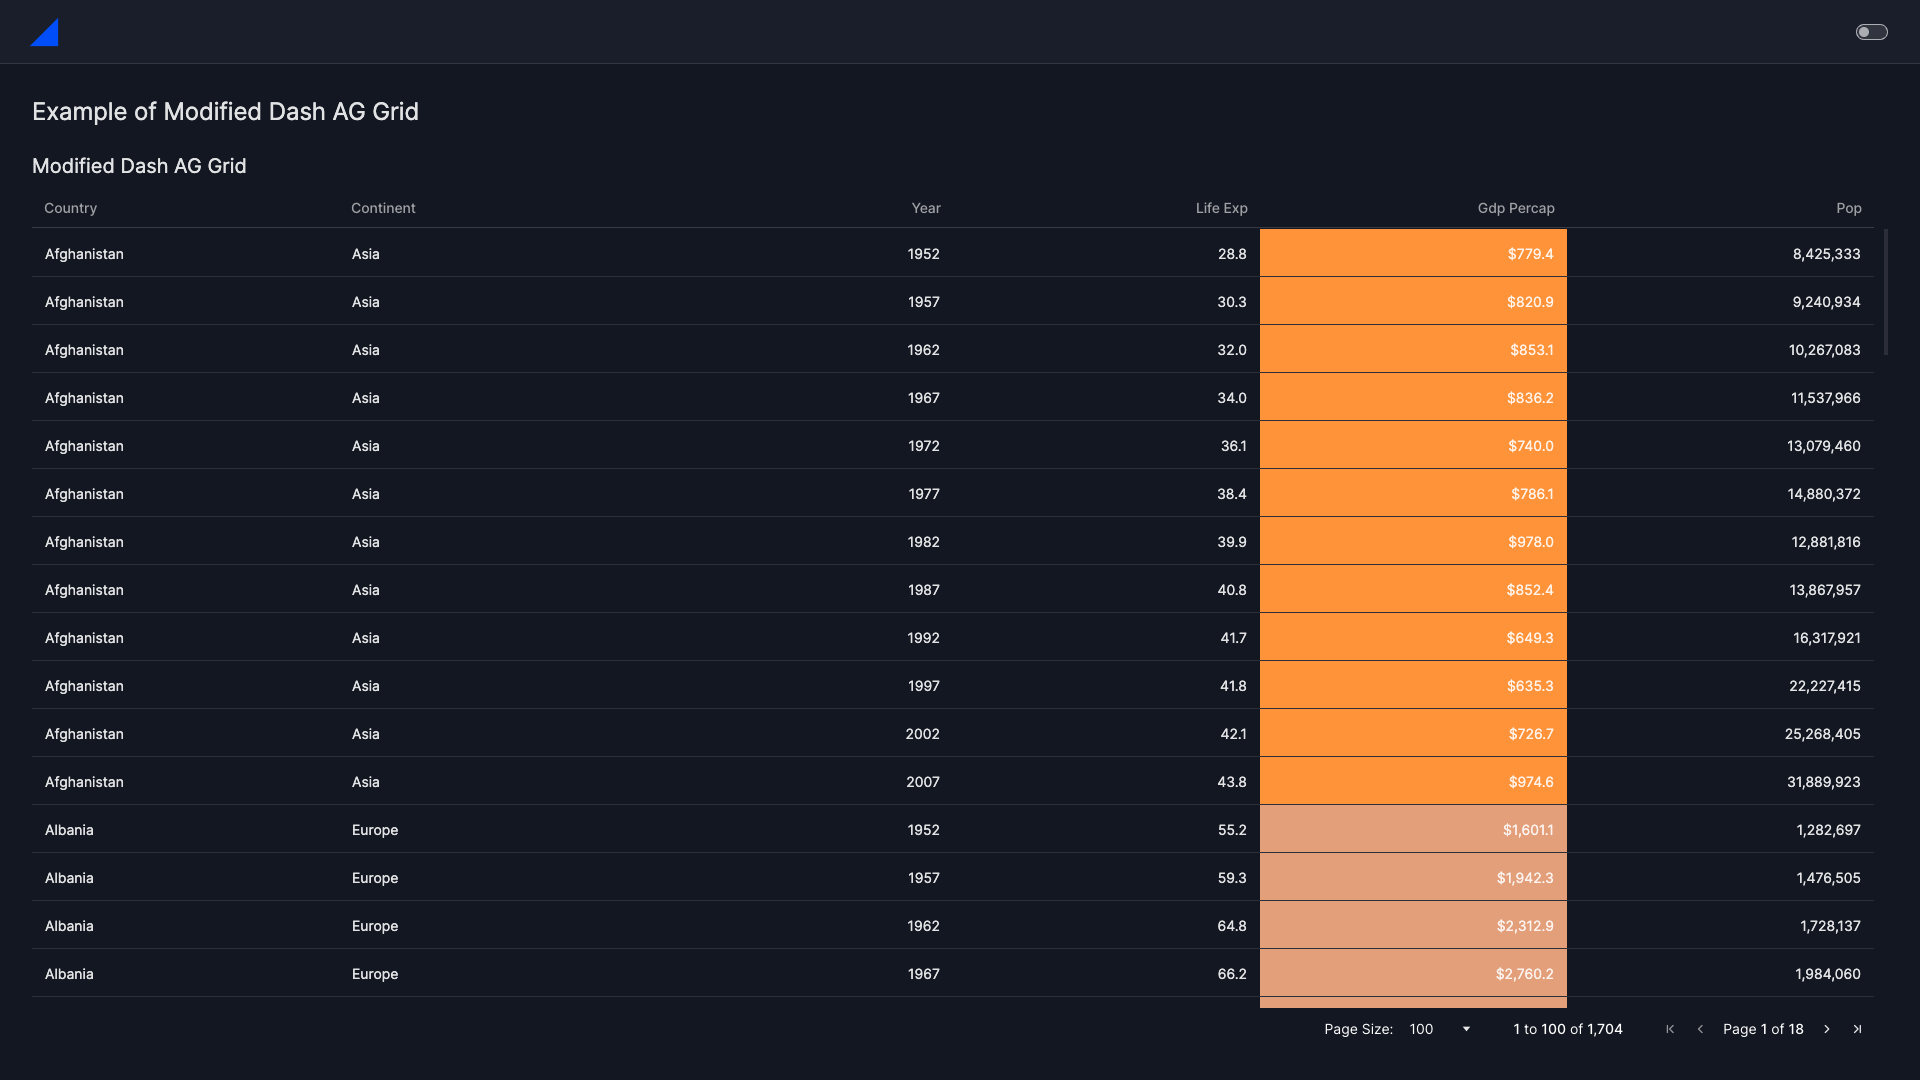
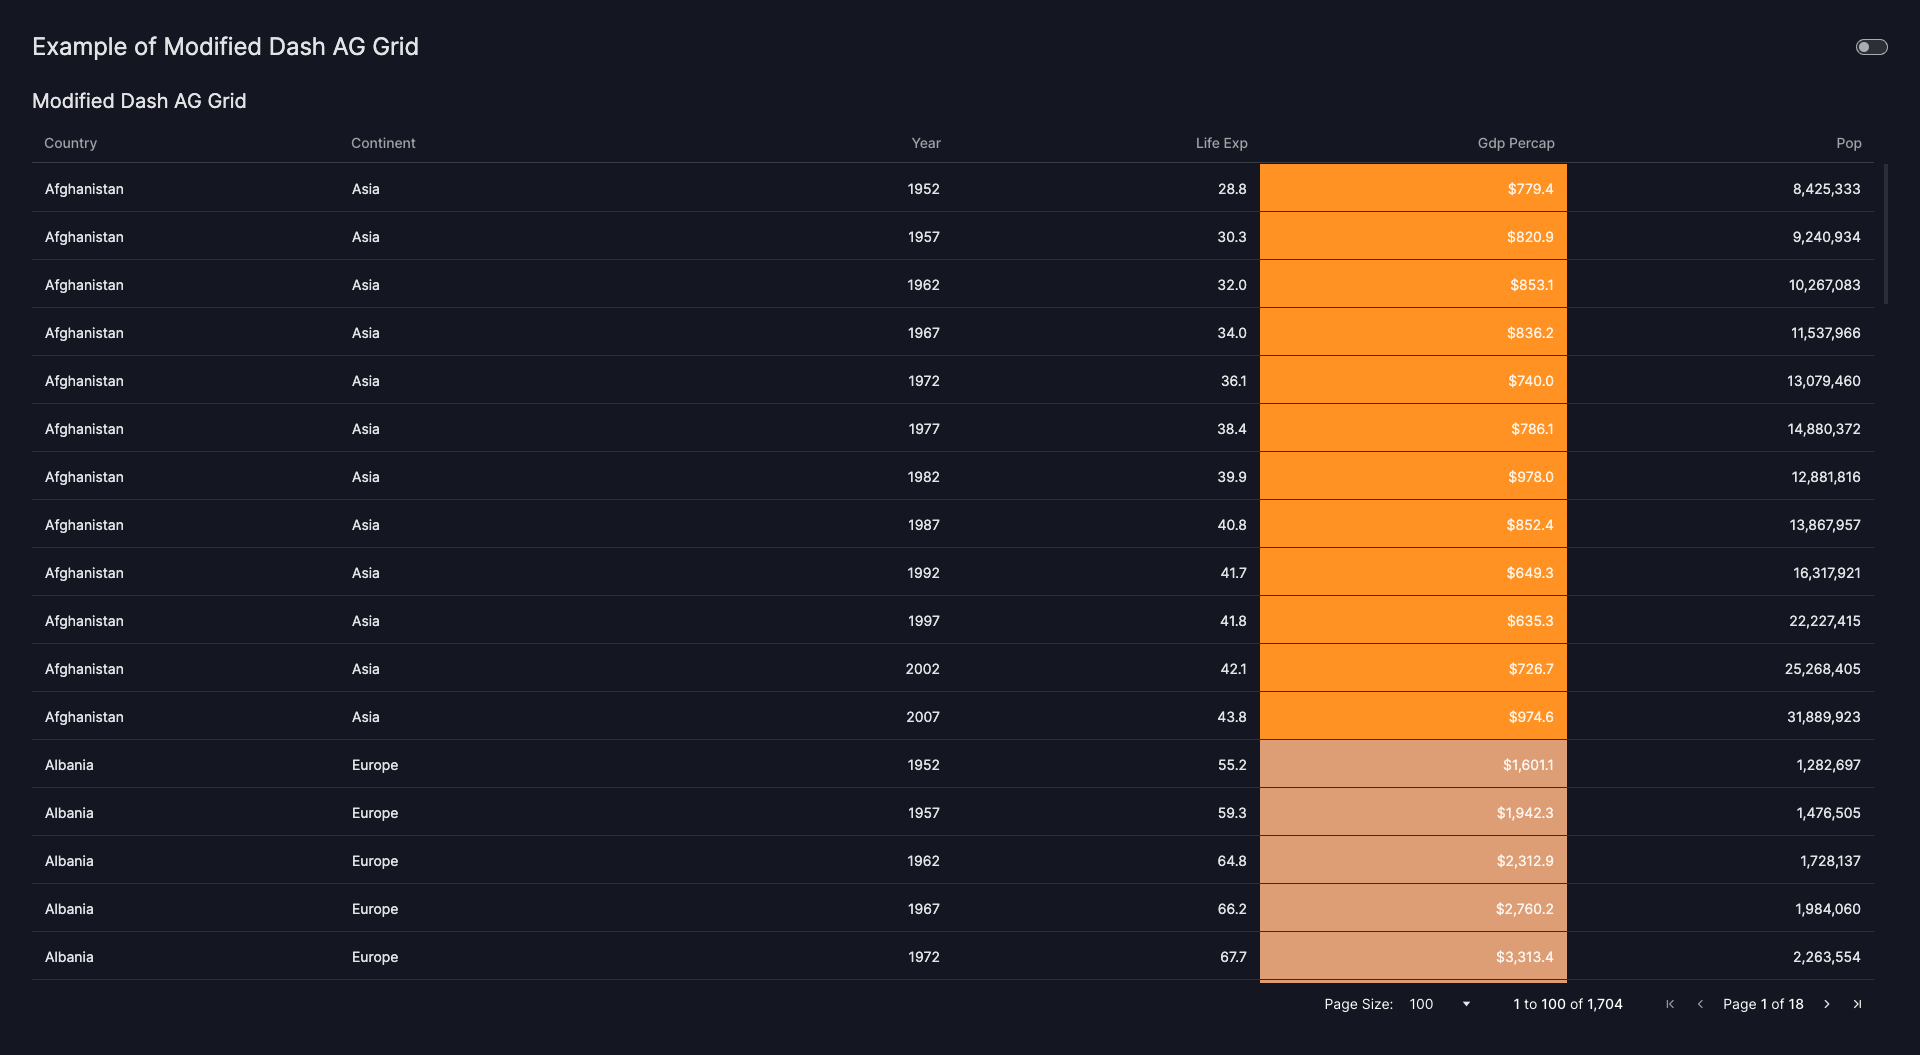
[Feat] Add column separators to `AgGrid` by default (#351)

diff --git a/vizro-core/src/vizro/static/css/aggrid.css b/vizro-core/src/vizro/static/css/aggrid.css
@@ -6,7 +6,6 @@
   --ag-header-foreground-color: var(--text-secondary);
   --ag-data-color: var(--text-primary);
   --ag-header-background-color: var(--main-container-bg-color);
-  --ag-header-column-resize-handle-display: none;
   --ag-icon-font-family: aggridquartz;
   --ag-icon-size: var(--text-size-02);
   --ag-row-height: 48px;
@@ -19,6 +18,10 @@
   --ag-row-border-width: 1px;
   --ag-selected-row-background-color: var(--state-overlays-selected);
   --ag-checkbox-checked-color: var(--text-primary);
+  --ag-header-column-resize-handle-display: block;
+  --ag-header-column-resize-handle-height: 30%;
+  --ag-header-column-resize-handle-width: 1px;
+  --ag-header-column-resize-handle-color: var(--border-subtle-alpha-02);
 }
 
 /* Header ------- */

diff --git a/vizro-core/changelog.d/20240306_155532_huong_li_nguyen_apply_col_separators_ag_grid.md b/vizro-core/changelog.d/20240306_155532_huong_li_nguyen_apply_col_separators_ag_grid.md
@@ -1,0 +1,48 @@
+<!--
+A new scriv changelog fragment.
+
+Uncomment the section that is right (remove the HTML comment wrapper).
+-->
+
+<!--
+### Highlights ✨
+
+- A bullet item for the Highlights ✨ category with a link to the relevant PR at the end of your entry, e.g. Enable feature XXX ([#1](https://github.com/mckinsey/vizro/pull/1))
+
+-->
+<!--
+### Removed
+
+- A bullet item for the Removed category with a link to the relevant PR at the end of your entry, e.g. Enable feature XXX ([#1](https://github.com/mckinsey/vizro/pull/1))
+
+-->
+<!--
+### Added
+
+- A bullet item for the Added category with a link to the relevant PR at the end of your entry, e.g. Enable feature XXX ([#1](https://github.com/mckinsey/vizro/pull/1))
+
+-->
+<!--
+### Changed
+
+- A bullet item for the Changed category with a link to the relevant PR at the end of your entry, e.g. Enable feature XXX ([#1](https://github.com/mckinsey/vizro/pull/1))
+
+-->
+<!--
+### Deprecated
+
+- A bullet item for the Deprecated category with a link to the relevant PR at the end of your entry, e.g. Enable feature XXX ([#1](https://github.com/mckinsey/vizro/pull/1))
+
+-->
+<!--
+### Fixed
+
+- A bullet item for the Fixed category with a link to the relevant PR at the end of your entry, e.g. Enable feature XXX ([#1](https://github.com/mckinsey/vizro/pull/1))
+
+-->
+<!--
+### Security
+
+- A bullet item for the Security category with a link to the relevant PR at the end of your entry, e.g. Enable feature XXX ([#1](https://github.com/mckinsey/vizro/pull/1))
+
+-->
